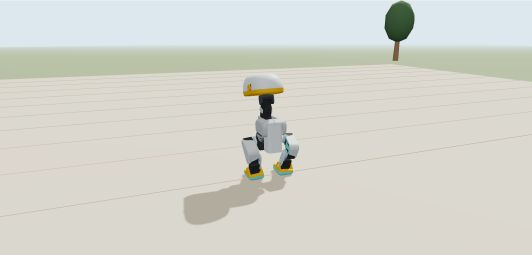
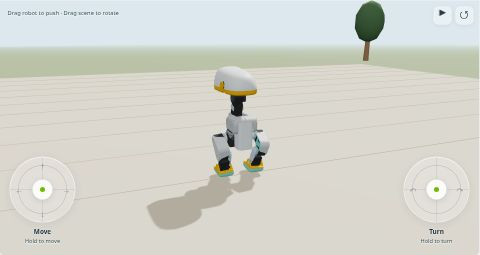
Use viewport controls for locomotion previews

diff --git a/docs/source/setup/interactive_demos.rst b/docs/source/setup/interactive_demos.rst
@@ -13,7 +13,7 @@ one self-contained Newton simulation with camera controls, pause, and reset.
 The simulation runs locally on the CPU through WebAssembly; no Isaac Lab
 installation or remote simulation server is needed.
 
-Open the `hosted gallery <../../../demos/v2/>`_ to browse all demos.
+Open the `hosted gallery <../../../demos/v3/>`_ to browse all demos.
 
 These compact scenes illustrate individual effects. Use the full Isaac Lab
 examples and tasks for evaluation, training, and measured comparisons.
@@ -91,7 +91,7 @@ Policy control
 
    .. grid-item-card:: G1 velocity control
       :img-top: ../_static/browser_demos/previews/g1.jpg
-      :link: ../../../demos/v1/?demo=g1
+      :link: ../../../demos/v3/?demo=g1
 
       .. _interactive-demo-g1:
 
@@ -100,7 +100,7 @@ Policy control
 
    .. grid-item-card:: ANYmal-D velocity control
       :img-top: ../_static/browser_demos/previews/anymal.jpg
-      :link: ../../../demos/v1/?demo=anymal
+      :link: ../../../demos/v3/?demo=anymal
 
       .. _interactive-demo-anymal:
 
@@ -109,12 +109,12 @@ Policy control
 
    .. grid-item-card:: MicroDuck walking
       :img-top: ../_static/browser_demos/previews/microduck.jpg
-      :link: ../../../demos/v2/?demo=microduck
+      :link: ../../../demos/v3/?demo=microduck
 
       .. _interactive-demo-microduck:
 
-      Walk through a miniature courtyard with travel and yaw pads.
-      Shift-drag the robot to push it, then release to watch it recover.
+      Hold the viewport joysticks to walk through a miniature courtyard.
+      Drag the robot to apply a 2 N push; release to let the policy recover.
 
 Cartpole uses the published ``Isaac-Cartpole-Direct`` Newton policy. G1 uses
 the external 29-joint WBC-AGILE ``Velocity-G1-v0`` policy. ANYmal-D uses the
@@ -180,5 +180,5 @@ and verifies its checksum before publishing; compiled assets are kept outside th
 The public `reference PR #7974 <https://github.com/isaac-sim/IsaacLab/pull/7974>`_
 records the exporters, shared viewer, and scene adaptations.
 Rebuilding requires the pinned internal Newton Web compiler and Emscripten.
-MicroDuck is published in version 2. Existing demo links retain version 1,
-and each release archive preserves earlier version directories.
+The locomotion demos use the version 3 viewer with controls inside the viewport.
+Other demos retain version 1 links. Each archive preserves earlier version directories.

diff --git a/docs/source/refs/contributing.rst b/docs/source/refs/contributing.rst
@@ -156,7 +156,7 @@ complete site locally, serve ``docs/_build`` over HTTP:
    uv run --no-project python -m http.server 8000 --directory docs/_build
 
 Open ``http://localhost:8000/current/index.html`` for the docs or
-``http://localhost:8000/demos/v2/`` for the demos. Downloaded ``docs-html`` artifacts include
+``http://localhost:8000/demos/v3/`` for the demos. Downloaded ``docs-html`` artifacts include
 ``PREVIEW.txt`` with the equivalent command to run from the extracted artifact's root directory.
 The browser must load the demos over HTTP so it can fetch their WebAssembly modules and data.
 
